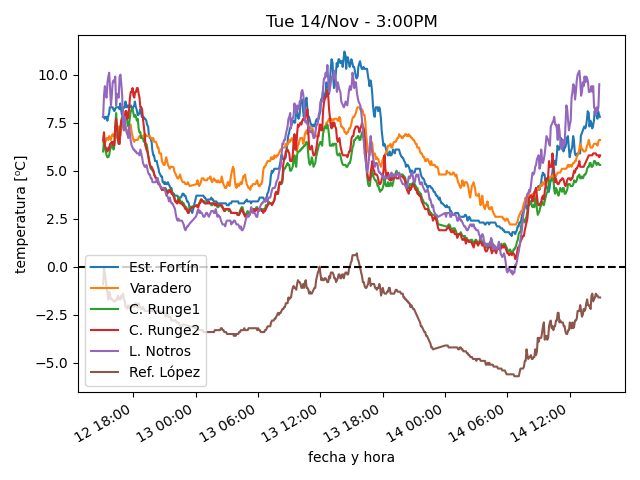
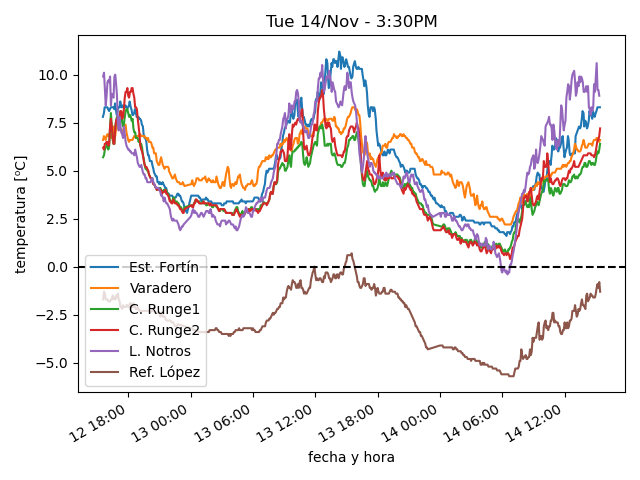
actualiza datos

diff --git a/estaciones/estacion1.html b/estaciones/estacion1.html
@@ -18,32 +18,32 @@
     </tr>
     <tr>
      <td class="stats_data">
-      2:53PM
+      3:23PM
      </td>
     </tr>
     <tr>
      <td class="stats_data">
-      7.8⁰C
+      8.3⁰C
      </td>
     </tr>
     <tr>
      <td class="stats_data">
-      -2.1⁰C
+      -1.8⁰C
      </td>
     </tr>
     <tr>
      <td class="stats_data">
-      50.0%
+      49.0%
      </td>
     </tr>
     <tr>
      <td class="stats_data">
-      1013.88hPa
+      1013.55hPa
      </td>
     </tr>
     <tr>
      <td class="stats_data">
-      20.2/36.2 km/hr WSW
+      20.2/34.6 km/hr WNW
      </td>
     </tr>
     <tr>
@@ -53,12 +53,12 @@
     </tr>
     <tr>
      <td class="stats_data">
-      5.9
+      5.3
      </td>
     </tr>
     <tr>
      <td class="stats_data">
-      967.0 W/m²
+      919.0 W/m²
      </td>
     </tr>
    </tbody>

diff --git a/estaciones/estacion3.html b/estaciones/estacion3.html
@@ -18,32 +18,32 @@
     </tr>
     <tr>
      <td class="stats_data">
-      2:54PM
+      3:24PM
      </td>
     </tr>
     <tr>
      <td class="stats_data">
-      5.3⁰C
+      6.4⁰C
      </td>
     </tr>
     <tr>
      <td class="stats_data">
-      -1.2⁰C
+      -0.5⁰C
      </td>
     </tr>
     <tr>
      <td class="stats_data">
-      63.0%
+      61.1%
      </td>
     </tr>
     <tr>
      <td class="stats_data">
-      1003.52hPa
+      1003.22hPa
      </td>
     </tr>
     <tr>
      <td class="stats_data">
-      12.6/18.3 km/hr NW
+      13.4/19.2 km/hr WNW
      </td>
     </tr>
     <tr>
@@ -58,7 +58,7 @@
     </tr>
     <tr>
      <td class="stats_data">
-      291.4 W/m²
+      309.6 W/m²
      </td>
     </tr>
    </tbody>

diff --git a/estaciones/estacion4.html b/estaciones/estacion4.html
@@ -18,32 +18,32 @@
     </tr>
     <tr>
      <td class="stats_data">
-      2:54PM
+      3:24PM
      </td>
     </tr>
     <tr>
      <td class="stats_data">
-      5.8⁰C
+      7.2⁰C
      </td>
     </tr>
     <tr>
      <td class="stats_data">
-      -1.8⁰C
+      -1.0⁰C
      </td>
     </tr>
     <tr>
      <td class="stats_data">
-      58.1%
+      56.0%
      </td>
     </tr>
     <tr>
      <td class="stats_data">
-      1012.33hPa
+      1011.92hPa
      </td>
     </tr>
     <tr>
      <td class="stats_data">
-      5.1/7.9 km/hr SSW
+      5.5/8.7 km/hr SW
      </td>
     </tr>
     <tr>
@@ -58,7 +58,7 @@
     </tr>
     <tr>
      <td class="stats_data">
-      210.3 W/m²
+      245.8 W/m²
      </td>
     </tr>
    </tbody>

diff --git a/estaciones/estacion6.html b/estaciones/estacion6.html
@@ -18,17 +18,17 @@
     </tr>
     <tr>
      <td class="stats_data">
-      2:55PM
+      3:25PM
      </td>
     </tr>
     <tr>
      <td class="stats_data">
-      -1.6⁰C
+      -1.3⁰C
      </td>
     </tr>
     <tr>
      <td class="stats_data">
-      -4.6⁰C
+      -4.3⁰C
      </td>
     </tr>
     <tr>
@@ -38,12 +38,12 @@
     </tr>
     <tr>
      <td class="stats_data">
-      1017.07hPa
+      1016.9hPa
      </td>
     </tr>
     <tr>
      <td class="stats_data">
-      12.9/22.5 km/hr SE
+      11.3/24.1 km/hr SSE
      </td>
     </tr>
     <tr>
@@ -58,7 +58,7 @@
     </tr>
     <tr>
      <td class="stats_data">
-      900.0 W/m²
+      903.0 W/m²
      </td>
     </tr>
    </tbody>

diff --git a/estaciones/estacion2.html b/estaciones/estacion2.html
@@ -18,7 +18,7 @@
     </tr>
     <tr>
      <td class="stats_data">
-      2:54PM
+      3:24PM
      </td>
     </tr>
     <tr>
@@ -28,22 +28,22 @@
     </tr>
     <tr>
      <td class="stats_data">
-      1.1⁰C
+      1.4⁰C
      </td>
     </tr>
     <tr>
      <td class="stats_data">
-      67.8%
+      69.9%
      </td>
     </tr>
     <tr>
      <td class="stats_data">
-      1018.73hPa
+      1018.52hPa
      </td>
     </tr>
     <tr>
      <td class="stats_data">
-      32.6/37.5 km/hr NW
+      35.1/40.7 km/hr NW
      </td>
     </tr>
     <tr>
@@ -58,7 +58,7 @@
     </tr>
     <tr>
      <td class="stats_data">
-      325.8 W/m²
+      313.5 W/m²
      </td>
     </tr>
    </tbody>

diff --git a/estaciones/estacion5.html b/estaciones/estacion5.html
@@ -18,32 +18,32 @@
     </tr>
     <tr>
      <td class="stats_data">
-      2:50PM
+      3:20PM
      </td>
     </tr>
     <tr>
      <td class="stats_data">
-      9.5⁰C
+      8.9⁰C
      </td>
     </tr>
     <tr>
      <td class="stats_data">
-      1.8⁰C
+      1.1⁰C
      </td>
     </tr>
     <tr>
      <td class="stats_data">
-      59.0%
+      58.0%
      </td>
     </tr>
     <tr>
      <td class="stats_data">
-      1014.26hPa
+      1014.33hPa
      </td>
     </tr>
     <tr>
      <td class="stats_data">
-      0.0/2.6 km/hr N
+      0.0/3.5 km/hr N
      </td>
     </tr>
     <tr>
